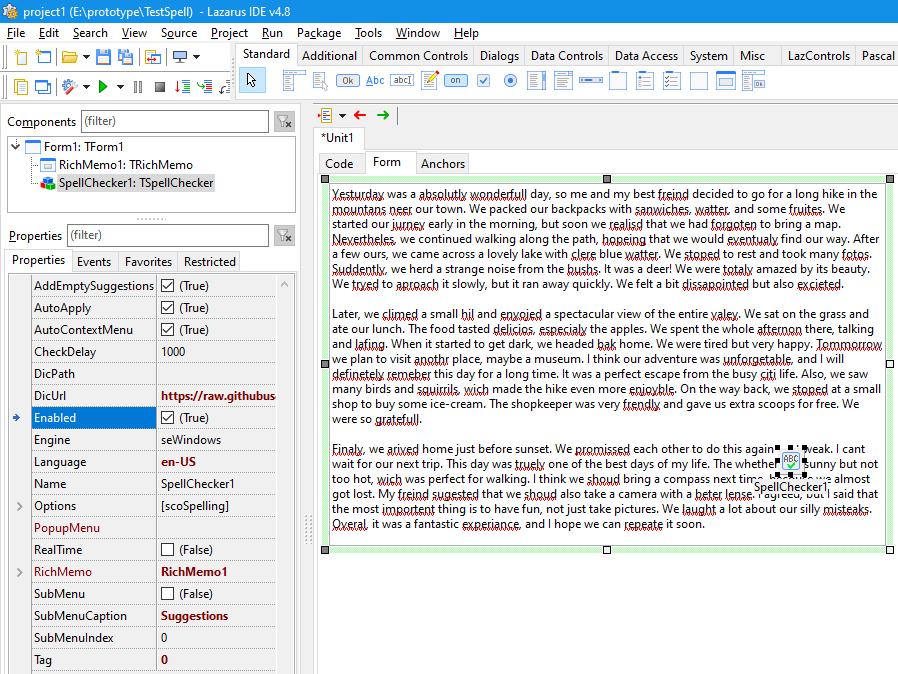
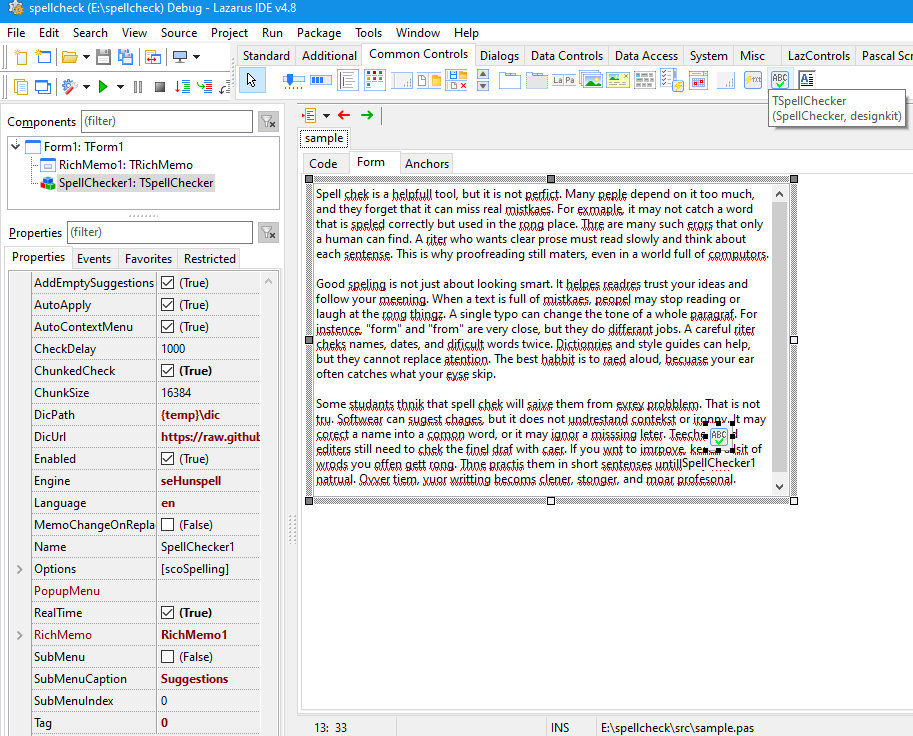
Update README.md

diff --git a/README.md b/README.md
@@ -31,6 +31,8 @@ All components are installed on the **Common Controls** tab of the component pal
 - Integration with an external `PopupMenu` – suggestions can be placed directly in the menu or inside a submenu.
 - Supports Windows Spell Checker (`seWindows`) and Hunspell (`seHunspell`).
 - For Hunspell: loads dictionaries from files, streams, or automatically downloads them from a URL (LibreOffice dictionaries repository).
+- Chunked background checking of very large documents with incremental drawing of underlines, so errors appear at the top of the document while the rest is still being checked.
+- The chunked pass starts from the currently visible area, so the user sees fresh results where he is looking even when the document is scrolled far from the beginning.
 - Events: `OnSpellCheckComplete` (reports error count), `OnContextPopup` (allows custom handling).
 
 ### Key Properties
@@ -52,7 +54,9 @@ All components are installed on the **Common Controls** tab of the component pal
 | `SubMenuIndex`         | `0`            | Index where suggestions (or submenu) are inserted in `PopupMenu`. |
 | `Engine`               | `seWindows`    | Spell engine: `seWindows` or `seHunspell`. |
 | `DicPath`              | `''`           | Directory for Hunspell dictionaries (absolute or relative to the application). |
-| `DicUrl`               | `'https://raw.githubusercontent.com/LibreOffice/dictionaries/master/{libredict}'` | URL template for downloading dictionaries. Placeholders: `{dict}` (language code + .aff/.dic) or `{libredict}` (LibreOffice internal path). |
+| `DicUrl`               | `'https://raw.githubusercontent.com/plainlib/dictionaries/main/{plaindict}'` | URL template for downloading dictionaries. Placeholders: `{dict}` (language code + .aff/.dic), `{plaindict}` (flat dictionary name), `{libredict}` (LibreOffice internal path), `{wooormdict}` (Wooorm dictionary path). |
+| `ChunkedCheck`         | `False`        | When `True`, large texts are checked in chunks and underlines are drawn incrementally while the background pass is still running. The pass starts from the currently visible area, then covers the text above and below. |
+| `ChunkSize`            | `16384`        | Size of a single chunk in bytes (used when `ChunkedCheck` is `True`). The real chunk is extended to the next whitespace, so a word is never split in half. Minimum 256 at runtime, no minimum in the designer. |
 
 ### Events
 
@@ -84,6 +88,8 @@ begin
   Spell.RealTime := True;
   Spell.CheckDelay := 800;
   Spell.AutoApply := True;
+  Spell.ChunkedCheck := True;
+  Spell.ChunkSize := 8192; // Roughly 2 to 4 pages
 end;
 ```
 
@@ -94,6 +100,37 @@ Spell.PopupMenu := MyPopupMenu;
 Spell.SubMenu := False; // suggestions appear directly in the menu
 Spell.SubMenuIndex := 2; // insert after the second item
 ```
+
+### Chunked checking of large documents
+
+By default the component checks the entire text in one background pass and applies all underlines at once. This is fine for short and medium documents, but on very large texts the user has to wait until the whole pass is finished before any error is highlighted.
+
+Enable `ChunkedCheck` to split the text into pieces and draw underlines incrementally:
+
+```pascal
+Spell.ChunkedCheck := True;
+Spell.ChunkSize := 16384; // roughly 4 to 5 pages of Latin text
+```
+
+How it works:
+
+- The text is split at whitespace boundaries, so words are never cut in half. A chunk may be larger than `ChunkSize` if no whitespace is found within a reasonable distance.
+- As soon as the first chunk is processed, its errors are drawn. The user sees results at the top of the document while the rest is still being checked.
+- The pass starts from the area currently visible in the memo, then covers the text above it and finally the text below it. This way, if the user has scrolled to the middle of a long document, fresh underlines appear where he is looking first.
+- Existing underlines from the previous run are kept on screen during the pass and replaced atomically in a single operation at the end. This avoids flicker.
+- Total work stays linear in the number of errors: each chunk draws only its own newly found errors, and the final replace redraws everything once.
+
+Suggested chunk sizes:
+
+| Language family      | Recommended `ChunkSize` | Approximate size         |
+|----------------------|-------------------------|--------------------------|
+| Latin (English, etc.)| 16384 – 32768           | 4 to 8 pages             |
+| Cyrillic (Russian)   | 8192 – 16384            | 2 to 4 pages             |
+| Any, "instant" feel  | 2048                    | half a page or less      |
+
+The property is ignored when `ChunkedCheck` is `False` or when the text is shorter than `ChunkSize`.
+
+During design time the minimum `ChunkSize` is relaxed to `1` so the behaviour can be tested word by word. At runtime the minimum is `256` to avoid pathological fragmentation.
 
 ---
 
